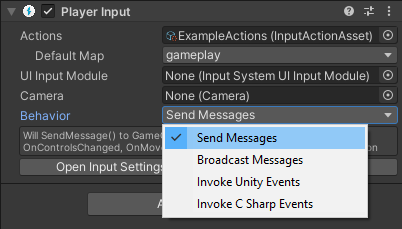
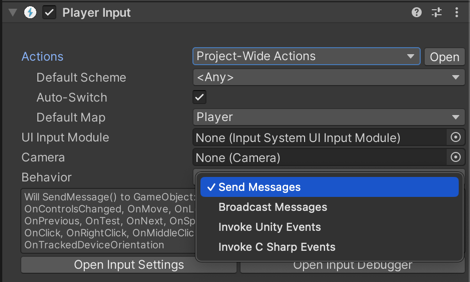
updated playerinput docs and screenshots to refer to project-wide actions

diff --git a/Packages/com.unity.inputsystem/Documentation~/PlayerInput.md b/Packages/com.unity.inputsystem/Documentation~/PlayerInput.md
@@ -12,9 +12,9 @@ The **Player Input** component represents a single player, and that player's ass
 
 ![PlayerInput](Images/PlayerInput.png)
 
-*Above, the Player Input component as visible in the inspector, with an Actions Asset called "ExampleActions" assigned.*
+*Above, the Player Input component as visible in the inspector.*
 
-Each [`PlayerInput`](../api/UnityEngine.InputSystem.PlayerInput.html) instance represents a separate player or user. You can use multiple `PlayerInput` instances at the same time (although not on the same `GameObject`) to represent local multiplayer setups. The Input System pairs each player to a unique set of Devices that the player uses exclusively, but you can also manually pair Devices in a way that enables two or more players to share a Device (for example, left/right keyboard splits or hot seat use).
+Each [`PlayerInput`](../api/UnityEngine.InputSystem.PlayerInput.html) instance represents a separate player or user. You can use multiple `PlayerInput` instances at the same time (although not on the same `GameObject`) to implement local multiplayer setups. The Input System pairs each player to a unique set of Devices that the player uses exclusively, but you can also manually pair Devices in a way that enables two or more players to share a Device (for example, left/right keyboard splits or hot seat use).
 
 Each `PlayerInput` corresponds to one [`InputUser`](UserManagement.md). You can use [`PlayerInput.user`](../api/UnityEngine.InputSystem.PlayerInput.html#UnityEngine_InputSystem_PlayerInput_user) to query the `InputUser` from the component.
 
@@ -43,7 +43,12 @@ You can use the following properties to configure `PlayerInput`:
 
 ### Actions
 
-To receive input, each player must have an associated set of Input Actions. When you create these via the Player Input inspector's __Create Actions__ button, the Input System creates a default set of Actions. However, the Player Input component places no restrictions on the arrangement of Actions.
+To receive input, each player must have an associated set of Input Actions.
+
+#### Specifying the Actions to use
+The simplest workflow is to use the project-wide actions defined in the [Input Actions editor](ActionsEditor.md). However, the Player Input component also allows you to use an [Actions Asset](ActionsAssets.md) to specify the actions that should be used by any instance of the component. If you set the **Actions** field to **Actions Asset**, the inspector displays a field into which you can assign an actions asset, and a **Create Actions** button which allows you to create a new actions asset. When you create these via the Player Input inspector's __Create Actions__ button, the Input System creates a default set of Actions. However, the Player Input component places no restrictions on the arrangement of Actions.
+
+#### Enabling and disabling Actions
 
 The Player Input component automatically handles enabling and disabling Actions, and also handles installing [callbacks](RespondingToActions.md#responding-to-actions-using-callbacks) on the Actions. When multiple Player Input components use the same Actions, the components automatically create [private copies of the Actions](RespondingToActions.md#using-actions-with-multiple-players).
 
